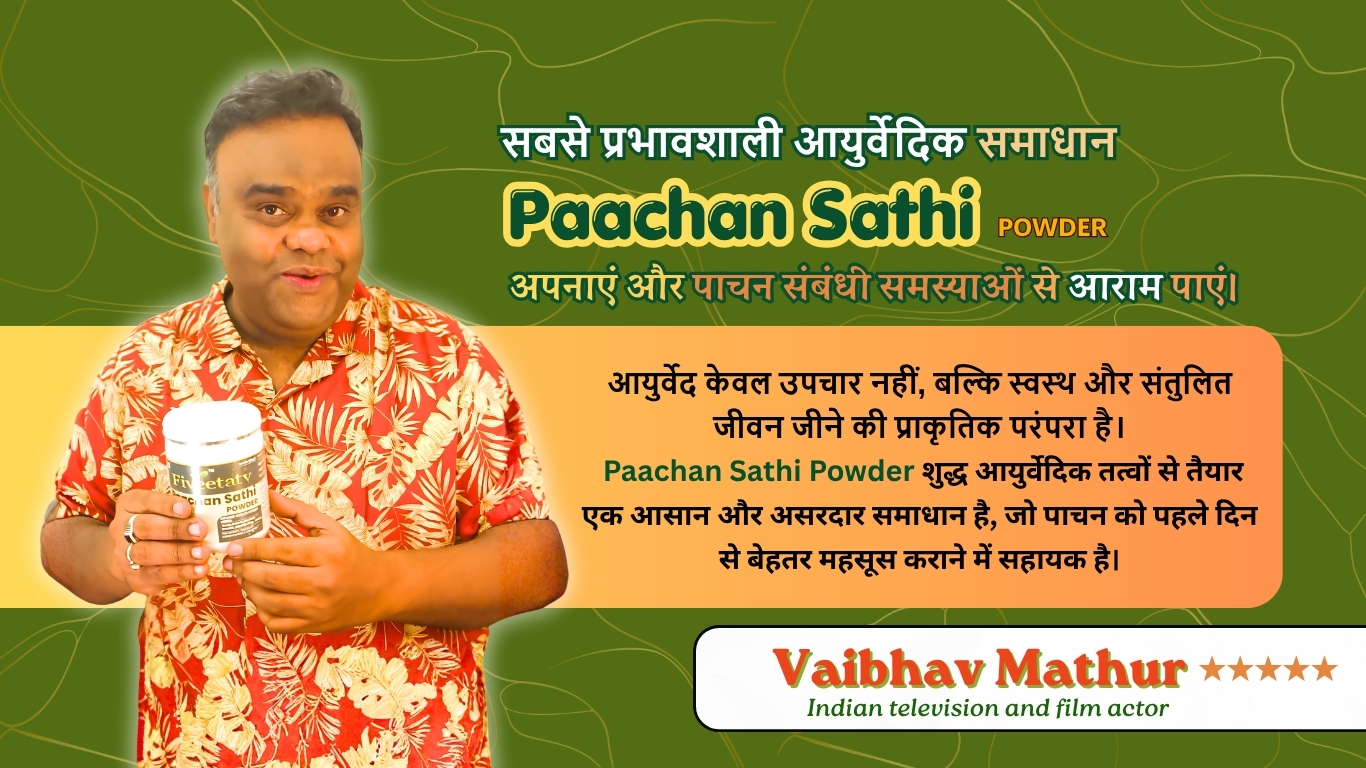
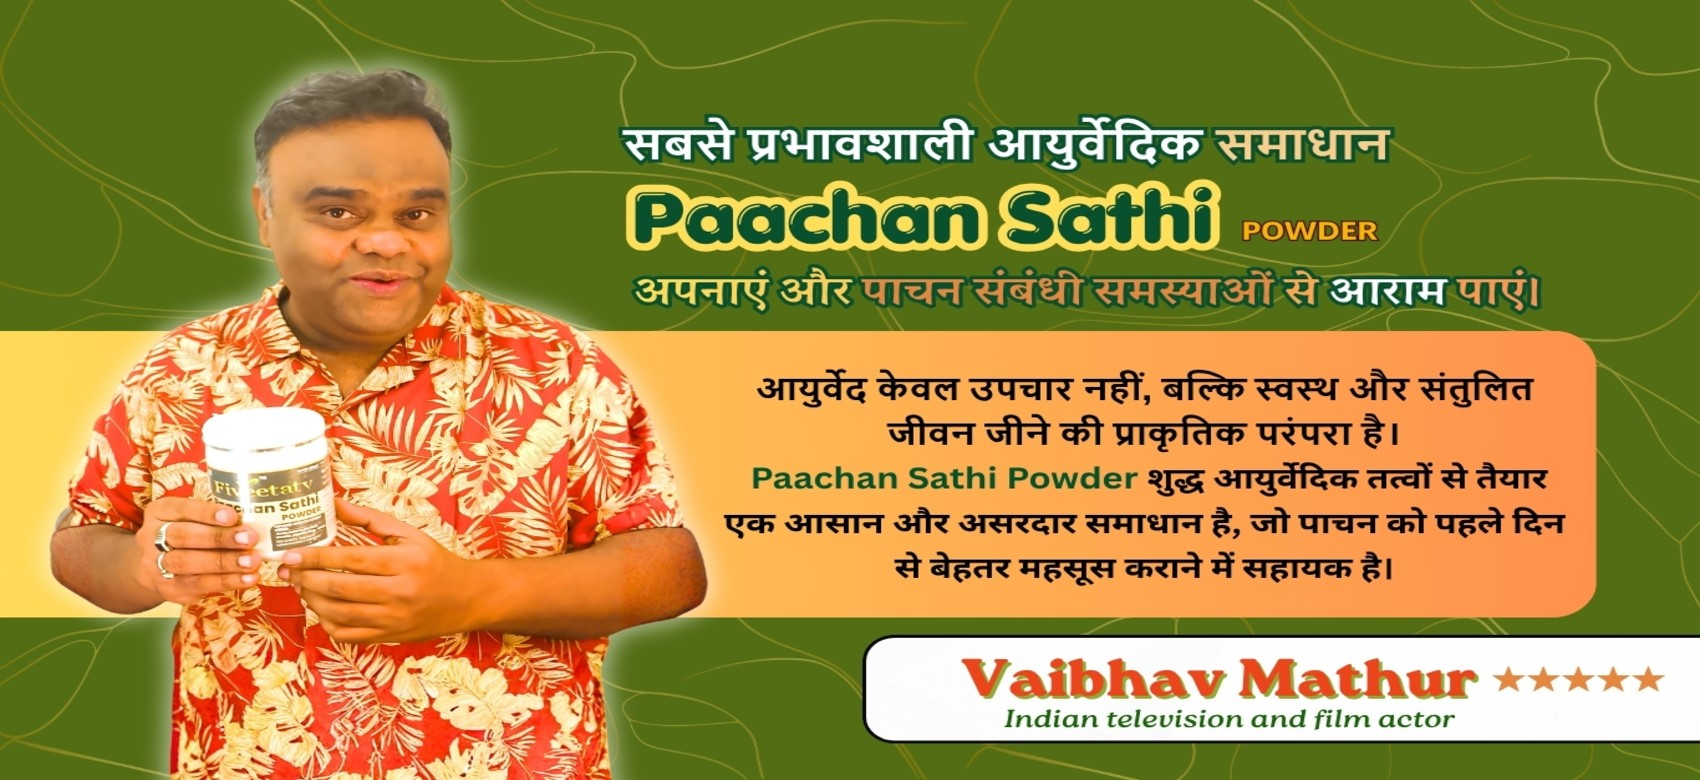
update 2.0

diff --git a/components/home/components/Landing.jsx b/components/home/components/Landing.jsx
@@ -49,11 +49,11 @@ export default function Landing() {
 
   return (
     <section className="relative w-full overflow-hidden bg-background">
-      <div className="overflow-hidden w-full aspect-[3/4] md:aspect-[3/1]" ref={emblaRef}>
+      <div className="overflow-hidden w-full aspect-[3/4] md:aspect-[2/1]" ref={emblaRef}>
         <div className="flex h-full">
           {slides.map((slide, index) => (
             <div key={index} className="relative flex-[0_0_100%] min-w-0 h-full">
-              <picture>
+              <picture className="relative block w-full h-full">
                 <source srcSet={`${slide.mobile}?v=2`} media="(max-width: 768px)" />
                 <Image 
                   src={`${slide.desktop}?v=2`} 
